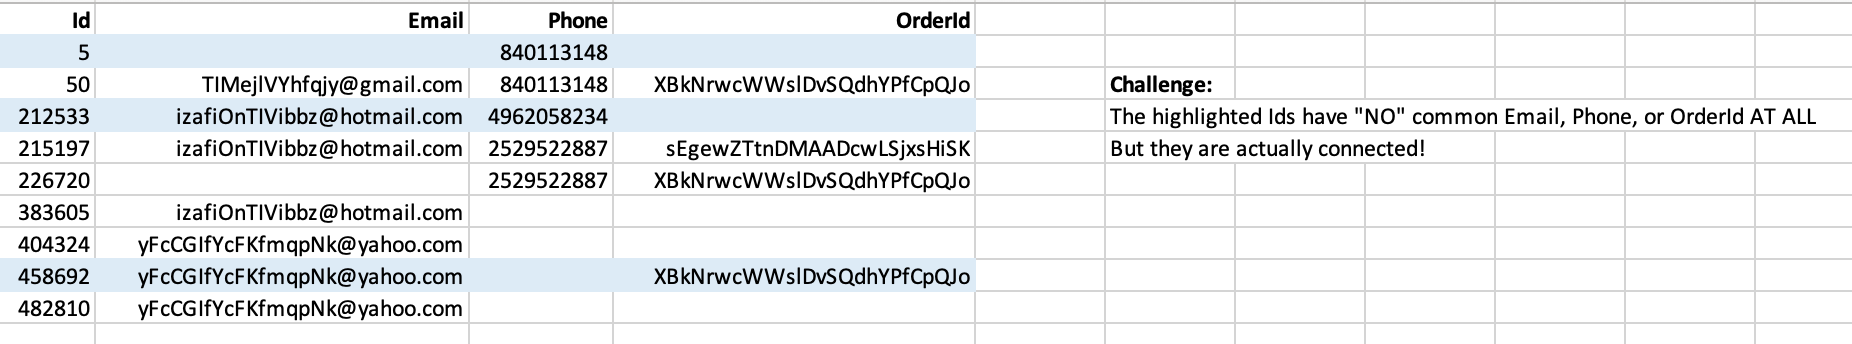
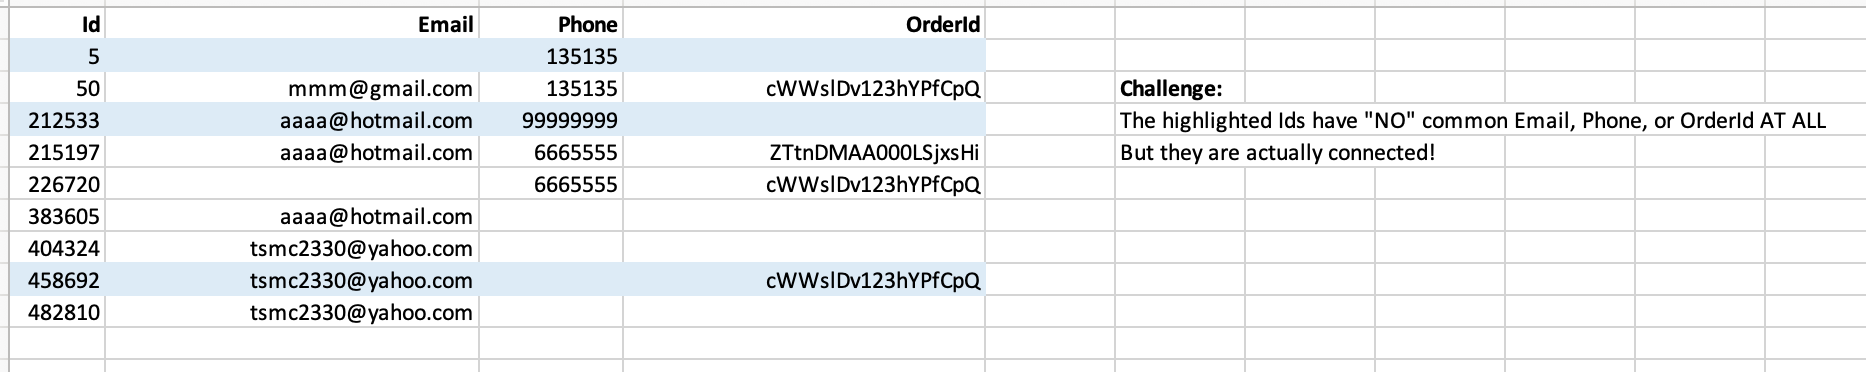
Anonymize demo data

Changed region(s): [[0.0, 0.0, 1.0, 0.9884]]

diff --git a/README.md b/README.md
@@ -6,6 +6,7 @@
 - [Try it out in Google Colab!](https://colab.research.google.com/github/KuanHaoHuang/shopee-code-league-2021-multi-channel-contacts-problem/blob/master/multi-channel-contacts.ipynb)
 
 ### Solution Visualization
+(All data shown below are synthesized, instead of real competition data)
 #### The Challenging Part
 ![challenge visualization](doc/challenge_visualization.png)
 #### Solved with Union-Find Algorithm
